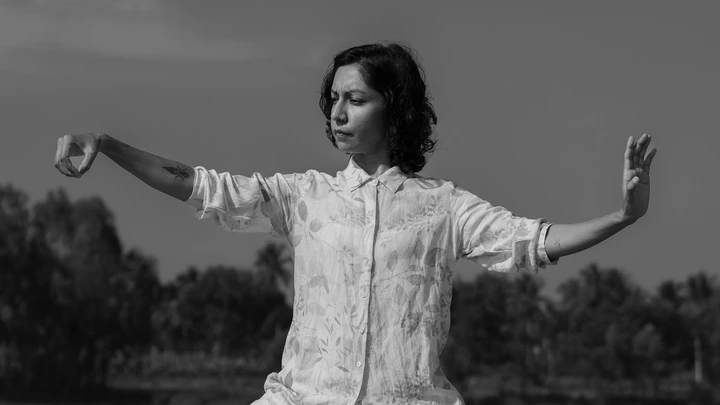
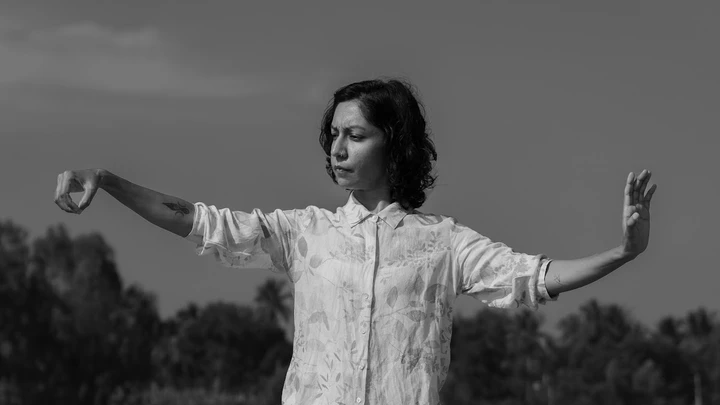
Update Tai Chi upper stance image with headroom and cache busting

diff --git a/src/content/images.js b/src/content/images.js
@@ -65,7 +65,7 @@ export const images = {
     'Kirti Verma kneeling beside a participant providing gentle hands-on somatic facilitation',
   ),
   kirtiTaiChiWhiteStance: photo(
-    'kirti-tai-chi-white-stance',
+    'kirti-tai-chi-upper-stance',
     1200,
     'Kirti Verma poised in a balanced Tai Chi posture in traditional white attire',
   ),
